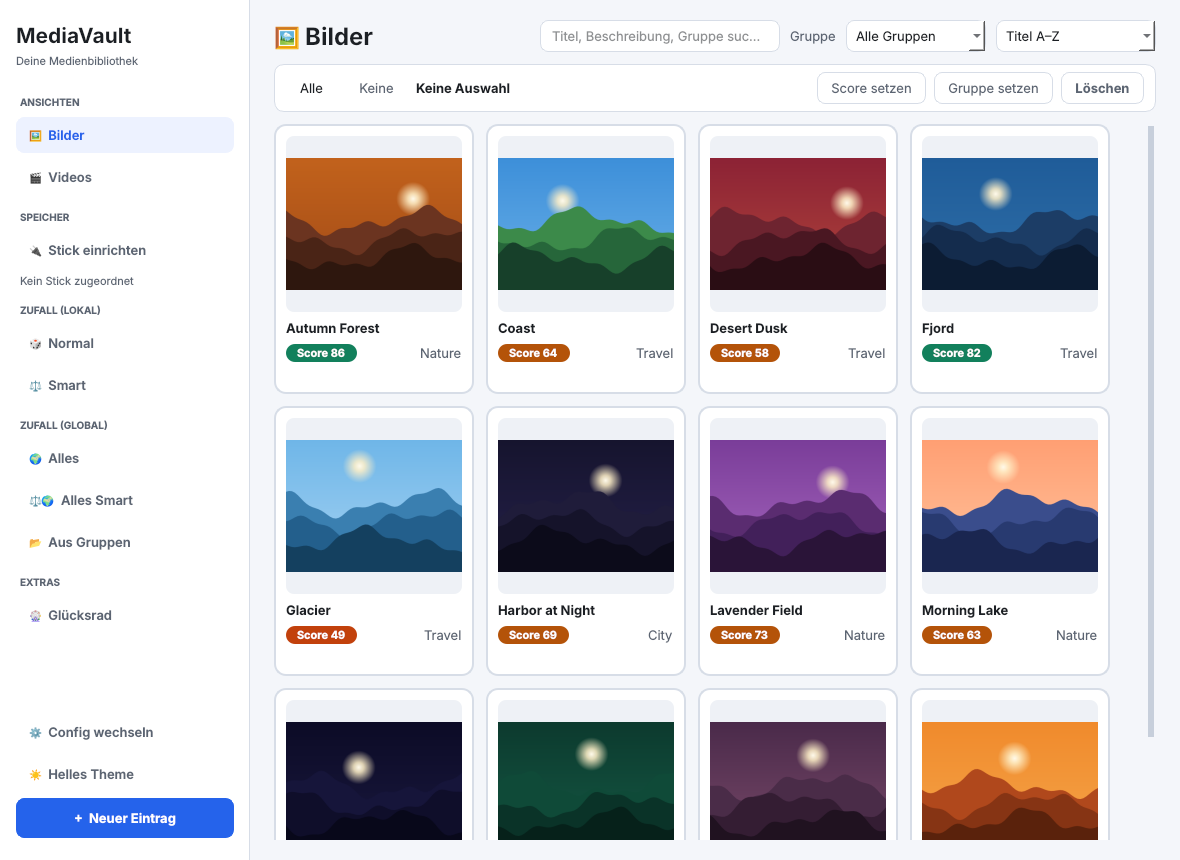
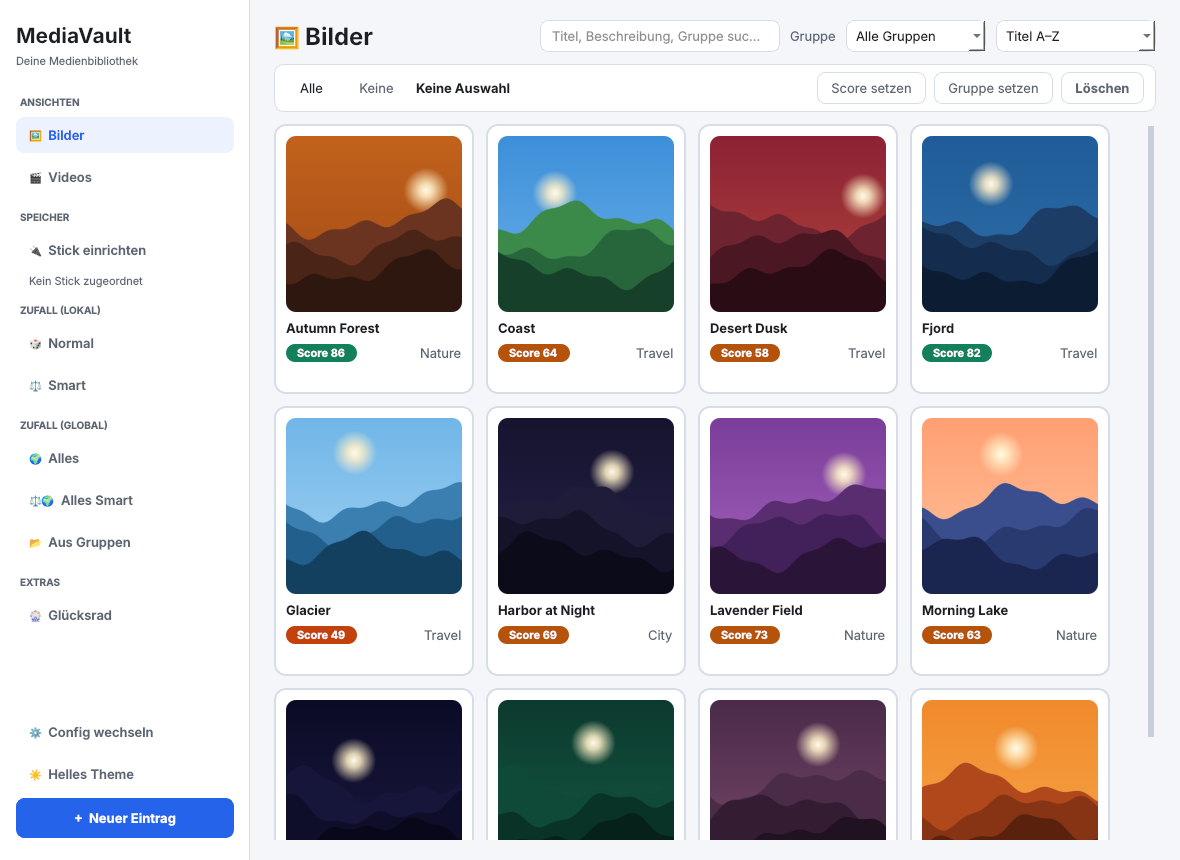
Fix: Filled card previews, WEB-IMPORT label, aligned sidebar status
Card previews now cover the whole square instead of sitting in a gray
letterbox; the detail view still shows the whole image. The English
"IMPORT FROM WEB" section is now "WEB-IMPORT", and the status lines under
sidebar buttons line up with the button icons.

diff --git a/mediavault/gui/widgets.py b/mediavault/gui/widgets.py
@@ -85,13 +85,22 @@ def score_tier(score: int) -> str:
 
 
 def rounded_pixmap(
-    pixmap: QPixmap, size: int = IMAGE_SIZE, radius: int = IMAGE_RADIUS
+    pixmap: QPixmap,
+    size: int = IMAGE_SIZE,
+    radius: int = IMAGE_RADIUS,
+    fill: bool = False,
 ) -> QPixmap:
-    """Scale a pixmap into a centered square with rounded corners for the card."""
+    """Scale a pixmap into a centered square with rounded corners.
+
+    With ``fill`` the image covers the whole square and its edges are cropped,
+    as on the grid cards; otherwise it fits inside, as in the detail view.
+    """
     scaled = pixmap.scaled(
         size,
         size,
-        Qt.AspectRatioMode.KeepAspectRatio,
+        Qt.AspectRatioMode.KeepAspectRatioByExpanding
+        if fill
+        else Qt.AspectRatioMode.KeepAspectRatio,
         Qt.TransformationMode.SmoothTransformation,
     )
     canvas = QPixmap(size, size)
@@ -217,7 +226,7 @@ class MediaCard(QFrame):
     def set_pixmap(self, pixmap: QPixmap | None) -> None:
         """Show a preview, or the "Kein Vorschaubild" placeholder when there is none."""
         if pixmap and not pixmap.isNull():
-            self.img_lbl.setPixmap(rounded_pixmap(pixmap))
+            self.img_lbl.setPixmap(rounded_pixmap(pixmap, fill=True))
         else:
             self.img_lbl.setText("Kein Vorschaubild")
 

diff --git a/tests/test_card_grid.py b/tests/test_card_grid.py
@@ -105,3 +105,19 @@ def test_previews_loaded_for_another_library_are_discarded(app, monkeypatch):
     assert not grid.is_loading
     pixmap = grid._pixmaps["Bilder/1.png"]
     assert pixmap.toImage().pixelColor(0, 0) == QColor("blue")
+
+
+def test_card_preview_fills_the_square_and_detail_preview_fits(app):
+    from PyQt6.QtGui import QColor, QPixmap
+
+    from mediavault.gui.widgets import rounded_pixmap
+
+    wide = QPixmap(200, 100)
+    wide.fill(QColor("red"))
+
+    filled = rounded_pixmap(wide, size=100, radius=0, fill=True).toImage()
+    fitted = rounded_pixmap(wide, size=100, radius=0).toImage()
+
+    # Top edge: covered by the image on cards, empty (letterbox) in the detail view.
+    assert filled.pixelColor(50, 2).red() == 255
+    assert fitted.pixelColor(50, 2).alpha() == 0

diff --git a/mediavault/gui/sidebar.py b/mediavault/gui/sidebar.py
@@ -35,7 +35,8 @@ def _section_label(text: str) -> QLabel:
 def _hint_label() -> QLabel:
     """Create a small wrapped status line under a button."""
     label = hint_label()
-    label.setContentsMargins(4, 0, 0, 0)
+    # Align with the icon of the nav buttons above (12px padding + 1px border).
+    label.setContentsMargins(13, 0, 0, 0)
     return label
 
 
@@ -139,7 +140,7 @@ class Sidebar(QWidget):
 
         # Collapsed by default; the open/closed state is remembered.
         self._online_section = CollapsibleSection(
-            "IMPORT FROM WEB", ONLINE_SECTION_KEY, expanded=False
+            "WEB-IMPORT", ONLINE_SECTION_KEY, expanded=False
         )
         layout.addWidget(self._online_section)
         self._plugin_buttons: dict[str, QPushButton] = {}

diff --git a/tests/test_collapsible.py b/tests/test_collapsible.py
@@ -25,7 +25,7 @@ def settings(tmp_path):
 
 
 def _section(settings, **kwargs):
-    section = CollapsibleSection("IMPORT FROM WEB", KEY, settings=settings, **kwargs)
+    section = CollapsibleSection("WEB-IMPORT", KEY, settings=settings, **kwargs)
     button = QPushButton("Import")
     section.add_widget(button)
     return section, button

diff --git a/mediavault/gui/collapsible.py b/mediavault/gui/collapsible.py
@@ -1,6 +1,6 @@
 """Collapsible sidebar section whose open/closed state is remembered.
 
-Used for the "IMPORT FROM WEB" area of the sidebar. The state is stored in
+Used for the "WEB-IMPORT" area of the sidebar. The state is stored in
 ``QSettings`` under a key per section, so it survives restarts.
 """
 

diff --git a/README.md b/README.md
@@ -170,7 +170,7 @@ An import plugin is a folder with an `__init__.py` that defines `PLUGIN`.
 MediaVault discovers plugins in `plugins/` (committed) and `plugins/private/`
 (local only, ignored by git) at startup. A plugin only fetches posts; the
 preview, download queue and duplicate-aware import are provided by the app.
-Without plugins the "IMPORT FROM WEB" section of the sidebar stays hidden.
+Without plugins the "WEB-IMPORT" section of the sidebar stays hidden.
 
 The interface and a complete example are documented in
 [plugins/README.md](plugins/README.md).

diff --git a/plugins/README.md b/plugins/README.md
@@ -1,6 +1,6 @@
 # MediaVault plugins
 
-Import sources for the "IMPORT FROM WEB" section of the sidebar. Every plugin
+Import sources for the "WEB-IMPORT" section of the sidebar. Every plugin
 found here gets its own button there; without plugins the section is hidden.
 MediaVault itself does the rest: the preview where you pick posts, the
 download queue, and the import with duplicate detection.
